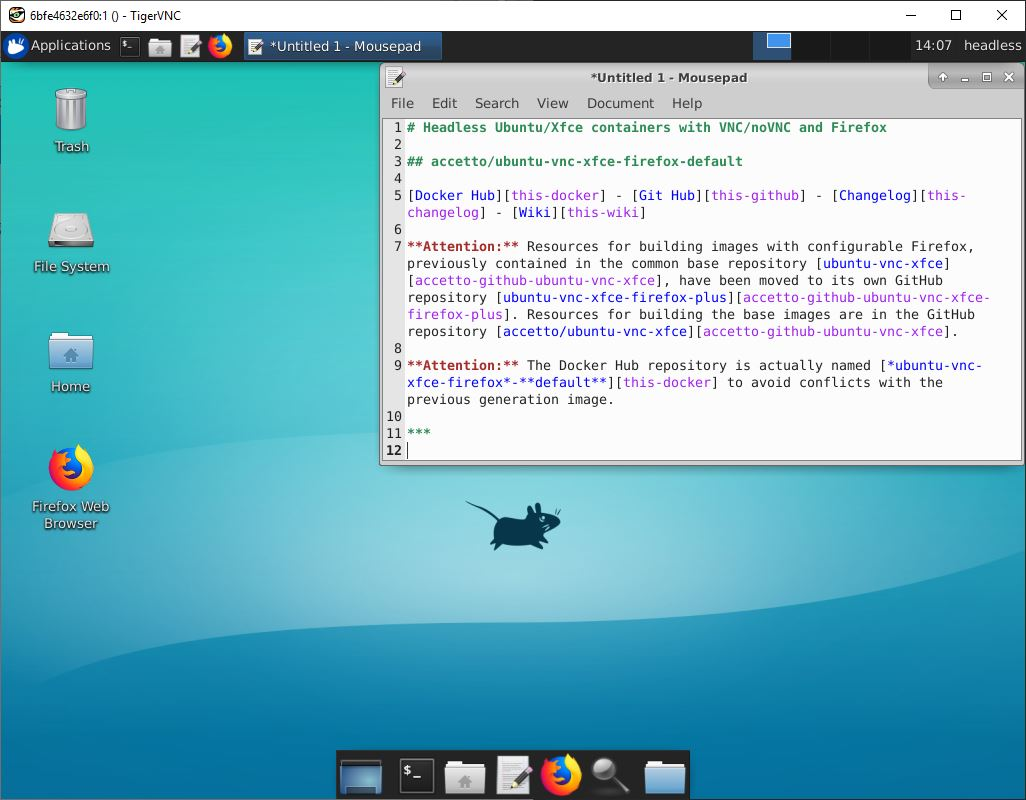
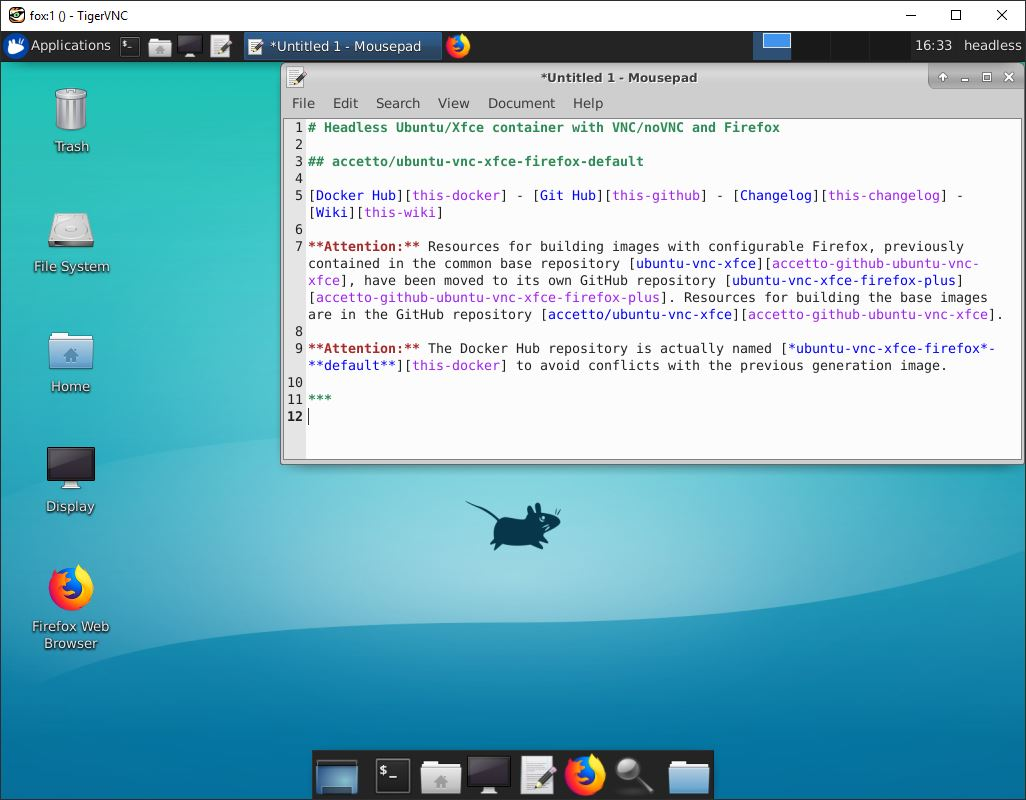
noVNC 1.1.0, ping, display setting launcher

diff --git a/README.md b/README.md
@@ -1,4 +1,4 @@
-# Headless Ubuntu/Xfce containers with VNC/noVNC and Firefox
+# Headless Ubuntu/Xfce container with VNC/noVNC and Firefox
 
 ## accetto/ubuntu-vnc-xfce-firefox-default
 
@@ -10,15 +10,15 @@
 
 ***
 
-**This repository** contains resources for building Docker images based on [Ubuntu][docker-ubuntu], with [Xfce][xfce] desktops, headless **VNC**/[noVNC][novnc] environments and default installation of the current [Firefox][firefox] browser in its default installation.
+**This repository** contains resources for building a Docker image based on [Ubuntu][docker-ubuntu] with [Xfce][xfce] desktop environment, **VNC**/[noVNC][novnc] servers for headless use and the current [Firefox][firefox] web browser in its default installation.
 
-This image can be successfully built and used on Linux, NAS devices and Windows.
+The image can be successfully built and used on Linux, Windows, Mac and NAS devices. It has been tested with [Docker Desktop][docker-desktop] on [Ubuntu flavours][ubuntu-flavours], [Windows 10][docker-for-windows] and [Container Station][container-station] from [QNAP][qnap].
 
-It has been tested with [Docker CE][docker-ce] on [Ubuntu flavours][ubuntu-flavours], with [Container Station][container-station] on a NAS from [QNAP][qnap] and with [Docker for Windows][docker-for-windows] on Windows 10.
+Containers created from this image make perfect light-weight web browsers. They can be thrown away easily and replaced quickly, improving browsing privacy. They run under a non-root user by default, improving browsing security.
 
-The image is perfect for fast creation of light-weight web browser containers. They can be thrown away easily and replaced quickly, improving browsing privacy. They run under a non-root user by default, improving browsing security.
+Running in background is the primary scenario for the containers, but using them interactively in foreground is also possible. For examples see the description below or the [HOWTO][this-wiki-howto] section in [Wiki][this-wiki].
 
-The image is based on the [accetto/ubuntu-vnc-xfce][accetto-docker-ubuntu-vnc-xfce] image, just adding the [Firefox][firefox] browser.
+The image is based on the [accetto/ubuntu-vnc-xfce][accetto-docker-ubuntu-vnc-xfce] image, just adding the [Firefox][firefox] browser in its default installation.
 
 The image inherits the following components from its [base image][accetto-docker-ubuntu-vnc-xfce]:
 
@@ -27,9 +27,8 @@ The image inherits the following components from its [base image][accetto-docker
 - [noVNC][novnc] HTML5 clients (full and lite) (TCP port **6901**)
 - popular text editor [vim][vim]
 - lite but advanced graphical editor [mousepad][mousepad]
+- **ping** utility
 - container start-up options
-
-Running containers in background is the primary scenario this image has been developed for. However, running in foreground can be useful in many cases. See the description below for examples of using the containers both ways.
 
 The image is regularly maintained and rebuilt. The history of notable changes is documented in [CHANGELOG][this-changelog].
 
@@ -40,13 +39,12 @@ The image is regularly maintained and rebuilt. The history of notable changes is
 - [accetto/ubuntu-vnc-xfce-firefox-default][this-docker]
 
   - `latest` based on `accetto/ubuntu-vnc-xfce:latest`
-  - `rolling` based on `accetto/ubuntu-vnc-xfce:rolling`
 
-    [![version badge](https://images.microbadger.com/badges/version/accetto/ubuntu-vnc-xfce-firefox-default.svg)](https://microbadger.com/images/accetto/ubuntu-vnc-xfce-firefox-default "Get your own version badge on microbadger.com") [![size badge](https://images.microbadger.com/badges/image/accetto/ubuntu-vnc-xfce-firefox-default.svg)](https://microbadger.com/images/accetto/ubuntu-vnc-xfce-firefox-default "Get your own image badge on microbadger.com") [![version badge](https://images.microbadger.com/badges/version/accetto/ubuntu-vnc-xfce-firefox-default:rolling.svg)](https://microbadger.com/images/accetto/ubuntu-vnc-xfce-firefox-default:rolling "Get your own version badge on microbadger.com") [![size badge](https://images.microbadger.com/badges/image/accetto/ubuntu-vnc-xfce-firefox-default:rolling.svg)](https://microbadger.com/images/accetto/ubuntu-vnc-xfce-firefox-default:rolling "Get your own image badge on microbadger.com")
+    [![version badge](https://images.microbadger.com/badges/version/accetto/ubuntu-vnc-xfce-firefox-default.svg)](https://microbadger.com/images/accetto/ubuntu-vnc-xfce-firefox-default "Get your own version badge on microbadger.com") [![size badge](https://images.microbadger.com/badges/image/accetto/ubuntu-vnc-xfce-firefox-default.svg)](https://microbadger.com/images/accetto/ubuntu-vnc-xfce-firefox-default "Get your own image badge on microbadger.com")
 
 ### Ports
 
-The images expose the following **TCP** ports:
+Following **TCP** ports are exposed:
 
 - **5901** used for access over **VNC**
 - **6901** used for access over [noVNC][novnc]
@@ -55,7 +53,7 @@ The default **VNC user** password is **headless**.
 
 ### Volumes
 
-The images do not create or use any external volumes by default. However, the following folders make good mounting points:
+The containers do not create or use any external volumes by default. However, the following folders make good mounting points:
 
 - /home/headless/Documents/
 - /home/headless/Downloads/
@@ -181,9 +179,13 @@ It's also possible to provide the password through the links:
 
 ## Issues
 
-If you have found a problem or just have a question, please check the [Issues][this-issues] and the [Troubleshooting][this-wiki-troubleshooting], [FAQ][this-wiki-faq] and [HOWTO][this-wiki-howto] pages in [Wiki][this-wiki] first. Please do not overlook also the closed issues.
+If you have found a problem or you just have a question, please check the [Issues][this-issues] and the [Troubleshooting][this-wiki-troubleshooting], [FAQ][this-wiki-faq] and [HOWTO][this-wiki-howto] sections in [Wiki][this-wiki] first. Please do not overlook the closed issues.
 
 If you do not find a solution, you can file a new issue. The better you describe the problem, the bigger the chance it'll be solved soon.
+
+## Credits
+
+Credit goes to all the countless people and companies who contribute to open source community and make so many dreamy things real.
 
 [this-docker]: https://hub.docker.com/r/accetto/ubuntu-vnc-xfce-firefox-default/
 [this-github]: https://github.com/accetto/ubuntu-vnc-xfce-firefox
@@ -208,8 +210,8 @@ If you do not find a solution, you can file a new issue. The better you describe
 [docker-ubuntu]: https://hub.docker.com/_/ubuntu/
 [docker-doc]: https://docs.docker.com/
 [docker-doc-managing-data]: https://docs.docker.com/storage/
-[docker-for-windows]: https://docs.docker.com/docker-for-windows/
-[docker-ce]: https://docs.docker.com/install/
+[docker-for-windows]: https://hub.docker.com/editions/community/docker-ce-desktop-windows
+[docker-desktop]: https://www.docker.com/products/docker-desktop
 
 [qnap]: https://www.qnap.com/en/
 [container-station]: https://www.qnap.com/solution/container_station/en/

diff --git a/CHANGELOG.md b/CHANGELOG.md
@@ -8,6 +8,18 @@
 
 ***
 
+### Version 19.04
+
+- **noVNC** updated to version **1.1.0** (formerly 1.0.0), inherited from the [base image][accetto-github-ubuntu-vnc-xfce]
+- **ping** utility added, inherited from the [base image][accetto-github-ubuntu-vnc-xfce]
+- Environment variable **REFRESHED_AT** added back
+- Display settings launcher added to the desktop and the panels
+  - to make resolution switching more convenient also with **noVNC** lite client
+  - inherited from the [base image][accetto-github-ubuntu-vnc-xfce]
+- **Dockerfile_rolling** file removed
+  - it can be easily cloned from the Dockerfile file for the **latest** build
+  - **rolling** build will not be maintained on **Docker Hub** any more
+
 ### Version 19.01
 
 - **TigerVNC** updated to version **1.9.0** (formerly 1.8.0), inherited from the [base image][accetto-github-ubuntu-vnc-xfce]
